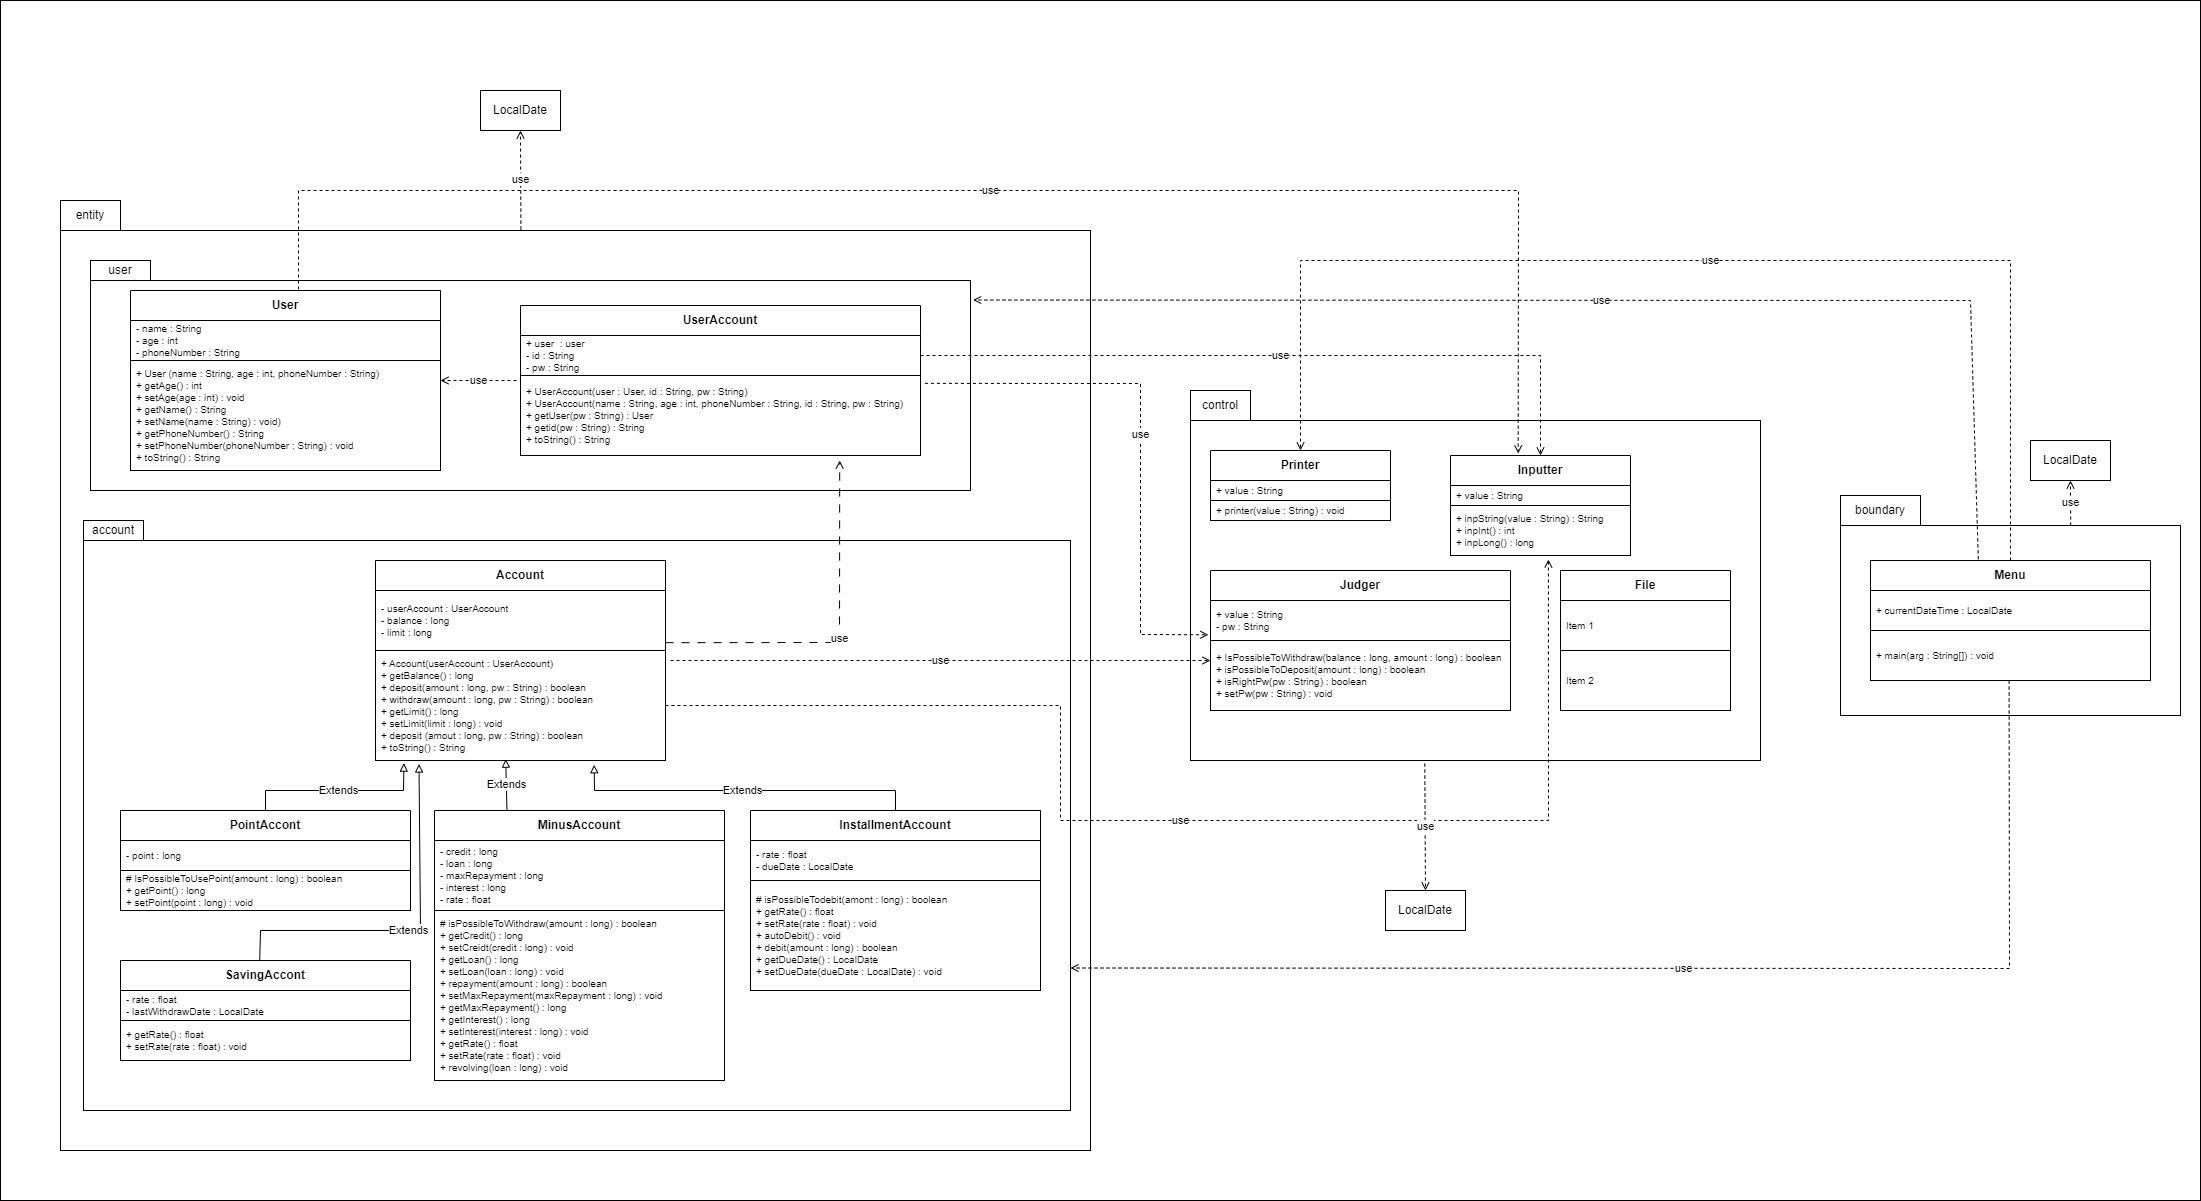
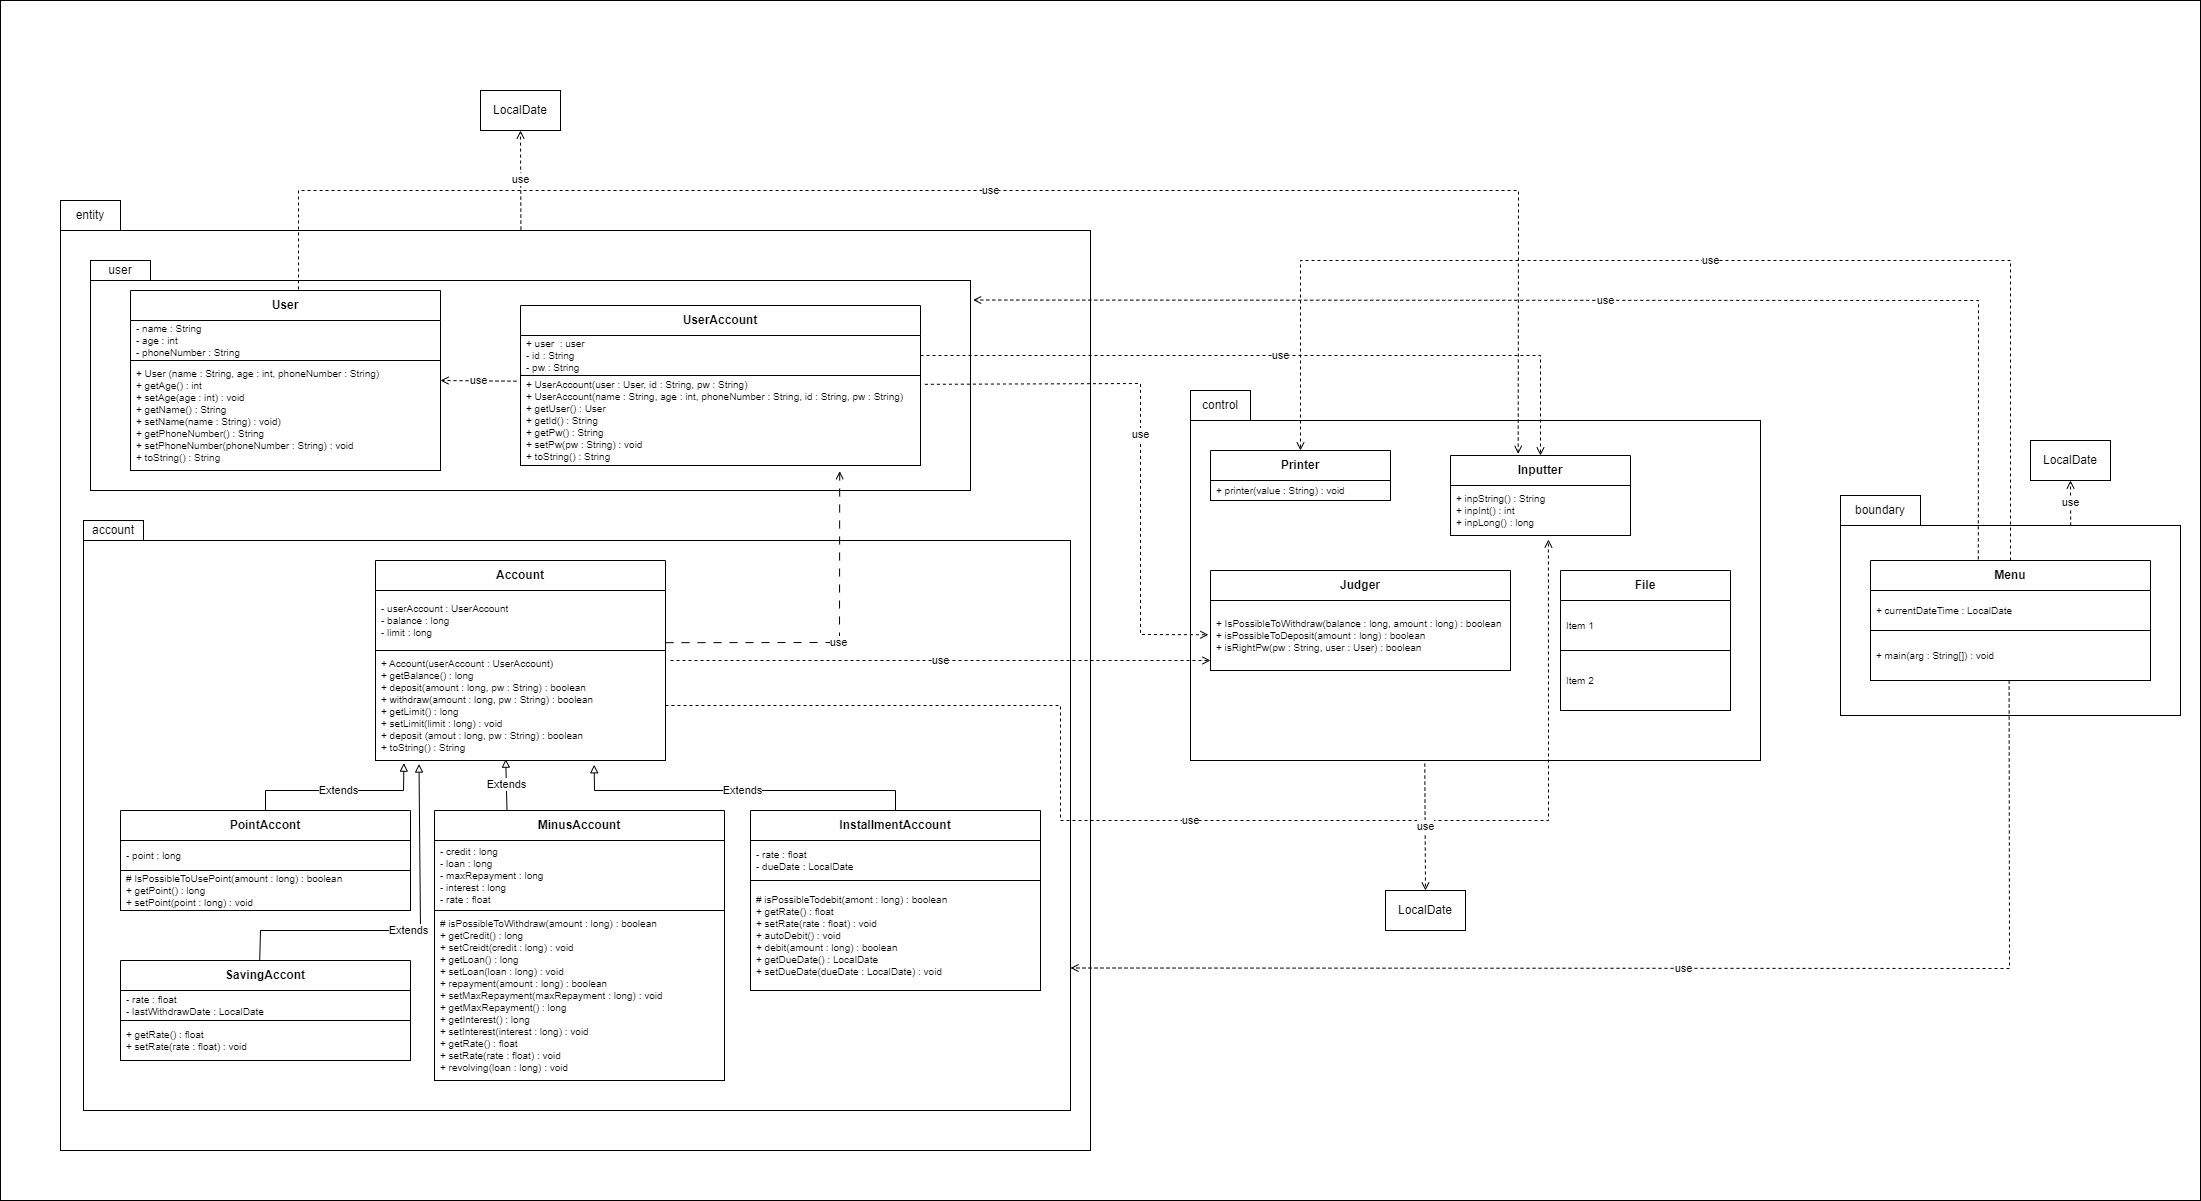
uml 업데이트 및 Control (파일 입출력 제외) 완료

diff --git a/src/controller/Inputter.java b/src/controller/Inputter.java
@@ -1,0 +1,28 @@
+package controller;
+
+import java.io.BufferedReader;
+import java.io.InputStreamReader;
+import java.io.IOException;
+import java.io.InputStream;
+
+public class Inputter {
+    InputStream inputStream = System.in;
+    InputStreamReader inputStreamReader = new InputStreamReader(inputStream);
+    BufferedReader bf = new BufferedReader(inputStreamReader);
+
+    public int inpInt() throws IOException
+    {
+        return Integer.parseInt(bf.readLine());
+    }
+
+    public long inpLong() throws  IOException
+    {
+        return Long.parseLong(bf.readLine());
+    }
+
+    public String inpString() throws IOException
+    {
+        return bf.readLine();
+    }
+
+}

diff --git a/src/controller/Printer.java b/src/controller/Printer.java
@@ -1,0 +1,17 @@
+package controller;
+import java.io.BufferedWriter;
+import java.io.OutputStream;
+import java.io.OutputStreamWriter;
+import java.io.IOException;
+
+public class Printer {
+    OutputStream outputStream = System.out;
+    OutputStreamWriter outputStreamWriter = new OutputStreamWriter(outputStream);
+    BufferedWriter bw = new BufferedWriter(outputStreamWriter);
+
+    public void print(String value) throws IOException
+    {
+        bw.write(value);
+        bw.flush();
+    }
+}

diff --git a/src/controller/Judger.java b/src/controller/Judger.java
@@ -1,4 +1,22 @@
 package controller;
 
+import entity.user.User;
+
 public class Judger {
+    public boolean isPossibleToWithdraw(long balance, long amount)
+    {
+        if (amount > 0)
+        {
+            return balance - amount >= 0;
+        }
+        return false;
+    }
+    public boolean isPossibleToDeposit(long amount)
+    {
+        return amount > 0;
+    }
+    public boolean isRightPw(User user, String pw)
+    {
+        return pw.equals(user.getPw());
+    }
 }
